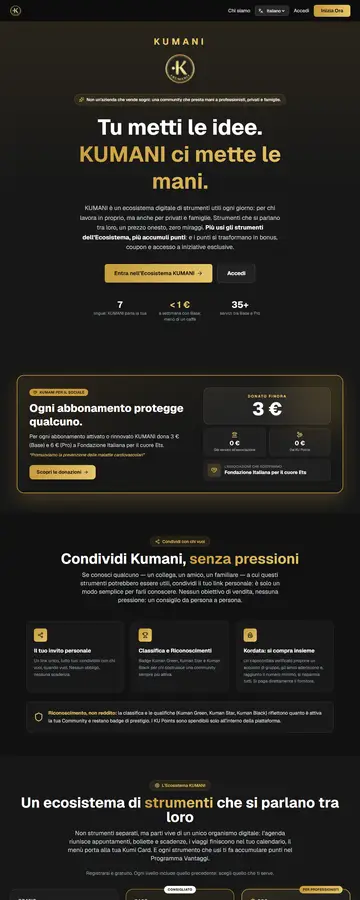
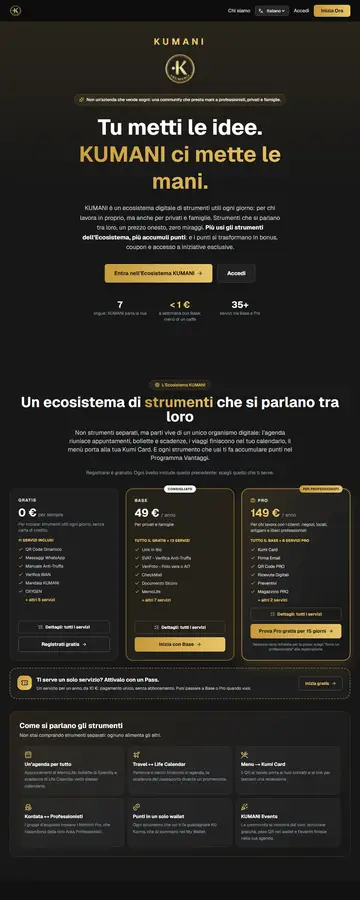
feat: homepage riordinata (Ecosistema subito dopo l'apertura, Donazioni prima della chiamata finale) e donazioni tra i motivi per scegliere KUMANI

Changed region(s): [[0.0306, 0.4044, 0.9778, 1.0], [0.0306, 0.9956, 0.0917, 1.0]]

diff --git a/src/app/[locale]/page.tsx b/src/app/[locale]/page.tsx
@@ -79,7 +79,7 @@ export default async function LandingPage({ searchParams }: { searchParams: Prom
     { icon: Gem, title: t('perk4Title'), desc: t('perk4Description') }
   ]
 
-  const benefits = [1, 2, 3, 4, 5, 6, 7].map((n) => t(`benefit${n}`))
+  const benefits = [1, 2, 3, 4, 5, 6, 7, 8].map((n) => t(`benefit${n}`))
 
   return (
     <div className="min-h-screen bg-[var(--ink)] overflow-x-hidden">
@@ -189,48 +189,6 @@ export default async function LandingPage({ searchParams }: { searchParams: Prom
         </div>
       </section>
 
-      {/* ❤ DONAZIONI: in evidenza subito dopo l'apertura */}
-      <HomeDonations />
-
-      {/* 🤝 SEZIONE: CONDIVIDI KUMANI — volutamente minimale, niente
-          linguaggio da "rete"/struttura in evidenza. */}
-      <HomeSection bg={L.share} className="py-12 sm:py-20">
-        <div className="max-w-7xl mx-auto px-4 sm:px-6 lg:px-8">
-          <div className="text-center mb-10 sm:mb-14">
-            <div className="inline-flex items-center gap-2 bg-[var(--gold)]/10 border border-[var(--gold)]/30 px-4 py-1.5 rounded-full text-sm font-medium text-[var(--gold-bright)] mb-4">
-              <Share2 className="w-4 h-4" />
-              {t('communityEyebrow')}
-            </div>
-            <h2 className="text-3xl sm:text-5xl font-bold text-white mb-4 break-words">
-              {t('communityTitle')} <span className="bg-gradient-to-r from-[var(--gold)] to-[var(--gold-bright)] bg-clip-text text-transparent">{t('communityAccent')}</span>
-            </h2>
-            <p className="text-base sm:text-xl text-gray-300 max-w-2xl mx-auto">
-              {t('communityDescription')}
-            </p>
-          </div>
-
-          <div className="grid grid-cols-1 sm:grid-cols-3 gap-4 sm:gap-6 mb-8 max-w-5xl mx-auto">
-            {communityCards.map((card, index) => (
-              <div key={index} className="rounded-2xl p-6 border border-[var(--gold)]/15 bg-white/[0.03] hover:border-[var(--gold)]/40 transition-colors">
-                <div className="w-11 h-11 rounded-lg bg-gradient-to-br from-[var(--gold)] to-[var(--gold-bright)] flex items-center justify-center mb-4">
-                  <card.icon className="w-5 h-5 text-[var(--ink)]" />
-                </div>
-                <h3 className="text-lg font-bold text-white mb-2">{card.title}</h3>
-                <p className="text-gray-400 text-sm leading-relaxed">{card.desc}</p>
-              </div>
-            ))}
-          </div>
-
-          {/* Box trasparenza: i badge di community non sono compensi */}
-          <div className="bg-white/[0.03] border border-[var(--gold)]/30 rounded-2xl p-5 sm:p-6 flex flex-col sm:flex-row items-start sm:items-center gap-4 max-w-5xl mx-auto">
-            <Shield className="w-8 h-8 text-[var(--gold-bright)] flex-shrink-0" />
-            <p className="text-gray-200 text-sm sm:text-base leading-relaxed">
-              <strong className="text-[var(--gold-bright)]">{t('communityTransparencyLead')}</strong> {t('communityTransparencyRest')}
-            </p>
-          </div>
-        </div>
-      </HomeSection>
-
       {/* 🛠 SEZIONE: IL MARKETPLACE — i servizi nei tre livelli Gratis, Base
           e Pro, con "Dettagli" per l'elenco completo e trasparente. */}
       <HomeSection bg={L.marketplace} className="py-12 sm:py-20">
@@ -278,6 +236,45 @@ export default async function LandingPage({ searchParams }: { searchParams: Prom
       </HomeSection>
 
       {L.bandAfterMarketplace && <HomeBand band={L.bandAfterMarketplace} />}
+
+      {/* 🤝 SEZIONE: CONDIVIDI KUMANI — volutamente minimale, niente
+          linguaggio da "rete"/struttura in evidenza. */}
+      <HomeSection bg={L.share} className="py-12 sm:py-20">
+        <div className="max-w-7xl mx-auto px-4 sm:px-6 lg:px-8">
+          <div className="text-center mb-10 sm:mb-14">
+            <div className="inline-flex items-center gap-2 bg-[var(--gold)]/10 border border-[var(--gold)]/30 px-4 py-1.5 rounded-full text-sm font-medium text-[var(--gold-bright)] mb-4">
+              <Share2 className="w-4 h-4" />
+              {t('communityEyebrow')}
+            </div>
+            <h2 className="text-3xl sm:text-5xl font-bold text-white mb-4 break-words">
+              {t('communityTitle')} <span className="bg-gradient-to-r from-[var(--gold)] to-[var(--gold-bright)] bg-clip-text text-transparent">{t('communityAccent')}</span>
+            </h2>
+            <p className="text-base sm:text-xl text-gray-300 max-w-2xl mx-auto">
+              {t('communityDescription')}
+            </p>
+          </div>
+
+          <div className="grid grid-cols-1 sm:grid-cols-3 gap-4 sm:gap-6 mb-8 max-w-5xl mx-auto">
+            {communityCards.map((card, index) => (
+              <div key={index} className="rounded-2xl p-6 border border-[var(--gold)]/15 bg-white/[0.03] hover:border-[var(--gold)]/40 transition-colors">
+                <div className="w-11 h-11 rounded-lg bg-gradient-to-br from-[var(--gold)] to-[var(--gold-bright)] flex items-center justify-center mb-4">
+                  <card.icon className="w-5 h-5 text-[var(--ink)]" />
+                </div>
+                <h3 className="text-lg font-bold text-white mb-2">{card.title}</h3>
+                <p className="text-gray-400 text-sm leading-relaxed">{card.desc}</p>
+              </div>
+            ))}
+          </div>
+
+          {/* Box trasparenza: i badge di community non sono compensi */}
+          <div className="bg-white/[0.03] border border-[var(--gold)]/30 rounded-2xl p-5 sm:p-6 flex flex-col sm:flex-row items-start sm:items-center gap-4 max-w-5xl mx-auto">
+            <Shield className="w-8 h-8 text-[var(--gold-bright)] flex-shrink-0" />
+            <p className="text-gray-200 text-sm sm:text-base leading-relaxed">
+              <strong className="text-[var(--gold-bright)]">{t('communityTransparencyLead')}</strong> {t('communityTransparencyRest')}
+            </p>
+          </div>
+        </div>
+      </HomeSection>
 
       {/* ☀ OGGI IN COMMUNITY — Kumano del Giorno: fascia compatta dopo gli
           strumenti e prima dei vantaggi. Solo storie approvate e con
@@ -427,6 +424,9 @@ export default async function LandingPage({ searchParams }: { searchParams: Prom
           </div>
         </div>
       </HomeSection>
+
+      {/* ❤ DONAZIONI: prima della chiamata finale */}
+      <HomeDonations />
 
       {/* CTA Section */}
       <HomeSection bg={L.cta} className="py-12 sm:py-20">
